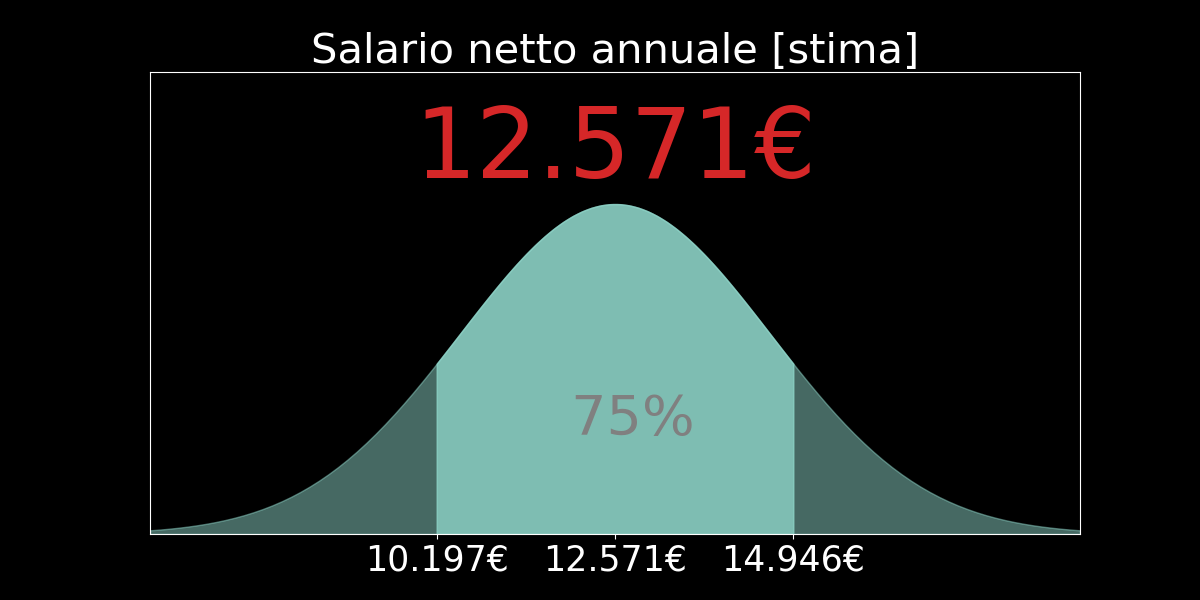
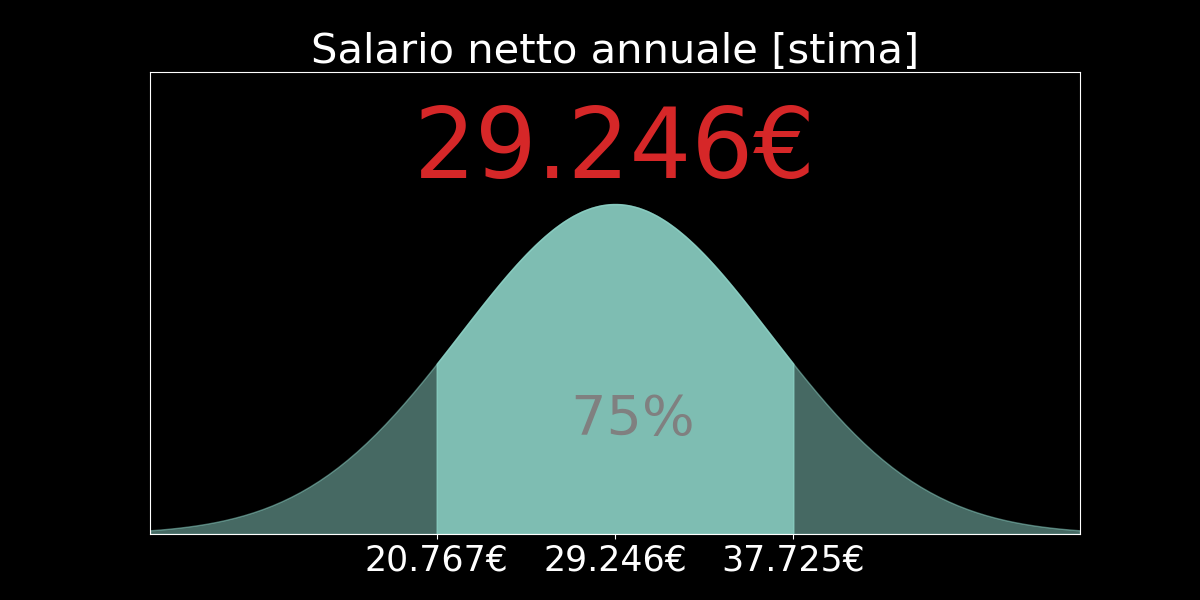
back to probnn

diff --git a/app/static/client.js b/app/static/client.js
@@ -14,10 +14,13 @@ function predict() {
   };
   xhr.onload = function(e) {
     if (this.readyState === 4) {
-      // var img = document.getElementById("ImgDistribution");
-      // img.src = "images/distribution.png"
       var response = JSON.parse(e.target.responseText);
-      el("result").innerHTML = `Salario netto annuale [stima]: ${response["prediction"]} \u20AC`;
+      //  ----- PROBNN ----- 
+      var img = document.getElementById("ImgDistribution");
+      img.src = "images/distribution.png"
+      el("result").innerHTML = `<br> Salario netto annuale: <p style="color:red;font-size:80px">${response["prediction"]}</p> Range [75%]: <p style="color:red;">${response["lower_bound"]} - ${response["upper_bound"]}</p> Distribuzione:`;
+      // ----- LightGBM ----- 
+      // el("result").innerHTML = `Salario netto annuale [stima]: ${response["prediction"]}`;
     }
     el("predict-button").innerHTML = "Valuta";
   };

diff --git a/app/view/index.html b/app/view/index.html
@@ -629,9 +629,9 @@
     </div>
     </div>
 
-    <!-- <div>
-      <img id="ImgDistribution" height="150" max-width: 80%></canvas>
-      </div> -->
+    <div>
+    <img id="ImgDistribution" height="150" max-width: 80%></canvas>
+    </div>
 
   </div>
 

diff --git a/app/main.py b/app/main.py
@@ -16,15 +16,17 @@ import sys
 import io
 sys.path.insert(0,"src/")
 
+MODEL = "probnn"
+
 path = os.path.dirname(os.path.abspath(__file__)) + "/"
 app = FastAPI()
 app.mount("/static", StaticFiles(directory=path+"static"), name="static")
 app.mount("/images", StaticFiles(directory=path+"images"), name="images")
 
 # load model
-model = pickle.load(open(path + "../models/20201116/model.p","rb"))
-features = pickle.load(open(path + "../models/20201116/features.p","rb"))
-preprocessor = pickle.load(open(path + "../models/20201116/cat_encoder.p","rb"))
+model = pickle.load(open(path + "../models/{}/model.p".format(MODEL),"rb"))
+features = pickle.load(open(path + "../models/{}/features.p".format(MODEL),"rb"))
+preprocessor = pickle.load(open(path + "../models/{}/cat_encoder.p".format(MODEL),"rb"))
 catfeat_map = dict(
     #partime = {"a tempo pieno": 1, "part-time": 2},
     contratto = {"a tempo indeterminato" : 1, "a tempo determinato" : 2, "di lavoro interinale" : 3, "non specificato" : None},
@@ -58,51 +60,61 @@ async def predict(request):
             x[f] = float(x[f])
     x = pd.DataFrame(x, index=[0])
     x = preprocessor.transform(x)
-    # predict
-    # mu,sigma = model.predict_parameters(x)
-    # mu = mu.item()
-    # sigma = sigma.item()
-    # fig,lower,upper = show_normal(mu,sigma,y_unit = model.y_unit)
-    # fig.savefig(path + "images/distribution.png",facecolor="black")
-    # pred = mu * model.y_unit
-    
-    pred = model.predict(x).item()
 
-    return JSONResponse({
-        "prediction" : np.round(pred),
-        "monthly_prediction" : np.round(pred/12),
-        # "lower_bound" : np.round(lower),
-        # "upper_bound": np.round(upper),
-    })
+    # ----- PROBNN -----
+    if MODEL == "probnn":
+        predict
+        mu,sigma = model.predict_parameters(x)
+        mu = mu.item()
+        sigma = sigma.item()
+        fig,lower,upper = show_normal(mu,sigma,y_unit = model.y_unit)
+        fig.savefig(path + "images/distribution.png",facecolor="black")
+        pred = mu * model.y_unit
+
+        return JSONResponse({
+            "prediction" : "{:,}€".format(int(np.round(pred))).replace(",","."),#np.round(pred),
+            "monthly_prediction" : "{:,}€".format(int(np.round(pred/12))).replace(",","."),#np.round(pred/12),
+            "lower_bound" : "{:,}€".format(int(np.round(lower))).replace(",","."),# np.round(lower),
+            "upper_bound": "{:,}€".format(int(np.round(upper))).replace(",","."),#np.round(upper),
+        })
+    # ----- LIGHTGBM -----
+    elif MODEL == "lightgbm":
+        pred = model.predict(x).item()
+        return JSONResponse({
+            "prediction" : "{:,}€".format(int(np.round(pred))).replace(",","."),#np.round(pred),
+            "monthly_prediction" : "{:,}€".format(int(np.round(pred/12))).replace(",","."),#np.round(pred/12),
+        })
+    else:
+        raise ValueError
     
 
-# def show_normal(mu,sigma,perc = .75,y_unit = 1000):
-#     # set x and y
-#     x = np.linspace(mu - 3*sigma, mu + 3*sigma, 100)
-#     y = stats.norm.pdf(x, mu, sigma)
-#     start,end = stats.norm.interval(perc,mu,sigma)
-#     x_int = np.linspace(start,end, 100)
-#     y_int = stats.norm.pdf(x_int, mu, sigma)
-#     ticks = [start,mu,end]
-#     # plot
-#     with plt.style.context('dark_background'):
-#         fig = plt.figure(figsize = (12,6))
-#         plt.fill_between(x,y, color = "C0", alpha = .5)
-#         plt.fill_between(x_int,y_int, label = "75%", color = "C0", alpha=.8)
-#         density_mu = stats.norm.pdf(mu, mu, sigma)
-#         plt.text(mu,density_mu * .3,
-#                  "  {}%".format(int(100*perc)),
-#                  size = 40,
-#                  horizontalalignment='center',
-#                  color = "gray")
-#         plt.text(mu,density_mu*1.08,
-#                  "{:,}€".format(int((mu * y_unit))).replace(",","."),
-#                  size = 70,
-#                  horizontalalignment='center',
-#                  color = "C3")
-#         plt.xticks(ticks,["{:,}€".format(int((v * y_unit))).replace(",",".") for v in ticks],size=25)
-#         plt.yticks([])
-#         plt.ylim(0,density_mu*1.4)
-#         plt.xlim(mu - 3*sigma, mu + 3*sigma)
-#         plt.title("Salario netto annuale [stima]",size = 30)
-#     return fig,start * y_unit,end * y_unit
+def show_normal(mu,sigma,perc = .75,y_unit = 1000):
+    # set x and y
+    x = np.linspace(mu - 3*sigma, mu + 3*sigma, 100)
+    y = stats.norm.pdf(x, mu, sigma)
+    start,end = stats.norm.interval(perc,mu,sigma)
+    x_int = np.linspace(start,end, 100)
+    y_int = stats.norm.pdf(x_int, mu, sigma)
+    ticks = [start,mu,end]
+    # plot
+    with plt.style.context('dark_background'):
+        fig = plt.figure(figsize = (12,6))
+        plt.fill_between(x,y, color = "C0", alpha = .5)
+        plt.fill_between(x_int,y_int, label = "75%", color = "C0", alpha=.8)
+        density_mu = stats.norm.pdf(mu, mu, sigma)
+        plt.text(mu,density_mu * .3,
+                 "  {}%".format(int(100*perc)),
+                 size = 40,
+                 horizontalalignment='center',
+                 color = "gray")
+        plt.text(mu,density_mu*1.08,
+                 "{:,}€".format(int(np.round(((mu * y_unit))))).replace(",","."),
+                 size = 70,
+                 horizontalalignment='center',
+                 color = "C3")
+        plt.xticks(ticks,["{:,}€".format(int(np.round((v * y_unit)))).replace(",",".") for v in ticks],size=25)
+        plt.yticks([])
+        plt.ylim(0,density_mu*1.4)
+        plt.xlim(mu - 3*sigma, mu + 3*sigma)
+        plt.title("Salario netto annuale [stima]",size = 30)
+    return fig,start * y_unit,end * y_unit
